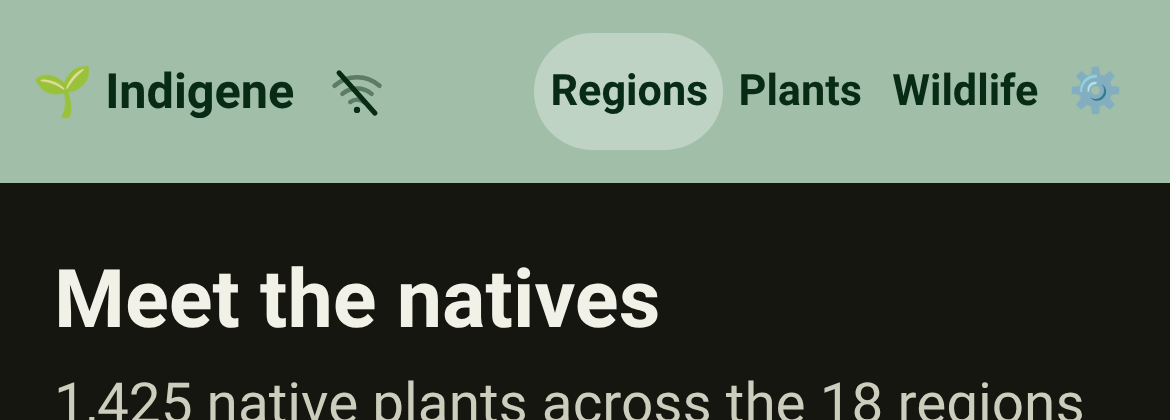
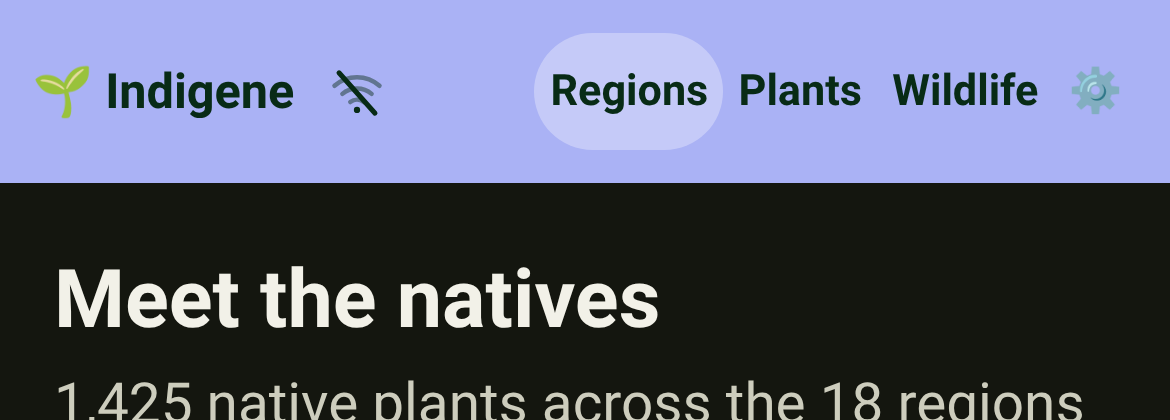
Offline header in dusk indigo, and an Offline mode switch in the gear menu
Grey read as a fault; offline is a mode worth having, so the header now
takes its own colour per scheme (--brand-offline). The menu's new row is a
role=switch button that flips lib/connection.ts in place and keeps the
panel open so the header change shows.

Claude-Session: https://claude.ai/code/session_01Sq9k88RoDSau4pfnRkPSQG

diff --git a/app/src/components/app-menu.ts b/app/src/components/app-menu.ts
@@ -5,8 +5,9 @@
 // is now the app's general menu, because it is the only spare surface in a
 // header measured to the pixel (see the ≤500px rules in styles.css — title +
 // four items with ~25 px of slack at 360 px). Anything that should be reachable
-// from every page without owning a tab belongs here. Today that's three rows,
-// in this order:
+// from every page without owning a tab belongs here. Today that's these rows,
+// in this order (plus the spooky theme in season, and Offline mode, the one
+// row that switches something in place instead of going somewhere):
 //
 //   1. What's new, first, because it's the row that wears the "something landed
 //      since you were last here" dot — and a menu you opened to check that
@@ -40,6 +41,7 @@ import { t } from "../lib/i18n";
 import { hasUnseenRelease } from "../lib/visits";
 import { halloweenOn, inSeason } from "../lib/halloween";
 import { isHomeScreenApp } from "../lib/standalone";
+import { forcedOffline, setForcedOffline } from "../lib/connection";
 import { newDot } from "./new-dot";
 
 let btn: HTMLButtonElement | null = null;
@@ -142,6 +144,7 @@ function fill(target: HTMLElement): void {
     row(notesHref, night ? "🔮" : "✨", t("footer.releaseNotes"), { dot: hasUnseenRelease() }),
     row("#/saved", night ? "🪦" : "🔖", t("nav.savedLocations")),
     ...(night || inSeason() ? [row("#/settings/spooky", "🎃", t("nav.halloween"))] : []),
+    offlineRow(),
     // One row, not one per setting. Language and units used to sit here as
     // their own values ("English", "Imperial") — two of the menu's four rows
     // spent on two of the settings page's five, and a menu that grows a row
@@ -152,6 +155,36 @@ function fill(target: HTMLElement): void {
     // (components/pull-to-reload.ts) is the fast way to the same thing; this is
     // the way that asks nothing of your hands.
     ...(isHomeScreenApp() ? [reloadRow()] : [])
+  );
+}
+
+/**
+ * Offline mode, as a switch (`lib/connection.ts`): flipping it is the point,
+ * so it acts in place and the menu stays open to show the header change. The
+ * Settings card is the same switch with room to explain it.
+ */
+function offlineRow(): HTMLElement {
+  const on = forcedOffline();
+  return el(
+    "button",
+    {
+      type: "button",
+      role: "switch",
+      "aria-checked": on ? "true" : "false",
+      class: "nav-menu-pref nav-menu-switch",
+      onClick: (e: Event) => {
+        // Redrawing the panel detaches this button, and the outside-click
+        // handler would then take the click for one outside the menu.
+        e.stopPropagation();
+        setForcedOffline(!on);
+        if (panel) fill(panel);
+      },
+    },
+    [
+      el("span", { class: "nav-menu-pref-icon", "aria-hidden": "true" }, "📴"),
+      t("nav.offline"),
+      el("span", { class: "nav-menu-state", "aria-hidden": "true" }, on ? t("nav.on") : t("nav.off")),
+    ]
   );
 }
 

diff --git a/app/src/styles.css b/app/src/styles.css
@@ -25,8 +25,9 @@
      themes — white in light, deep green ink in dark (where --brand is a
      light green and white text would drop to ~2:1). */
   --on-brand: #ffffff;
-  /* What the header greys toward while offline (lib/connection.ts). */
-  --offline-grey: #4a4f4c;
+  /* The header while offline (lib/connection.ts): dusk indigo, a mode of
+     its own rather than a dimmed green. Paired with --on-brand. */
+  --brand-offline: #3a3f9e;
   /* Active-pill background in the header nav; paired with --on-brand text. */
   --nav-pill: rgba(0, 0, 0, 0.25);
   --brand-ink: #0d3d20;
@@ -63,7 +64,7 @@
     --line-strong: #727b5f;
     --brand: #7ec894;
     --on-brand: #082b16;
-    --offline-grey: #b4b9b5;
+    --brand-offline: #aab2f5;
     --nav-pill: rgba(255, 255, 255, 0.32);
     --brand-ink: #b9e6c6;
     --brand-bg: #1f3326;
@@ -91,7 +92,7 @@
   --line-strong: #727b5f;
   --brand: #7ec894;
   --on-brand: #082b16;
-  --offline-grey: #b4b9b5;
+  --brand-offline: #aab2f5;
   --nav-pill: rgba(255, 255, 255, 0.32);
   --brand-ink: #b9e6c6;
   --brand-bg: #1f3326;
@@ -119,7 +120,7 @@
   --line-strong: #9b8aa6;
   --brand: #ff8a1f;
   --on-brand: #140a00;
-  --offline-grey: #a39b94;
+  --brand-offline: #c39af5;
   --nav-pill: rgba(0, 0, 0, 0.3);
   --brand-ink: #ffc27a;
   --brand-bg: #2e1a08;
@@ -797,6 +798,18 @@ p.more-link a {
   text-align: center;
 }
 
+/* Offline mode's on/off word, pushed to the row's end like a switch's. */
+.nav-menu-state {
+  margin-left: auto;
+  padding-left: 0.75rem;
+  font-weight: 500;
+  color: var(--ink-soft);
+}
+.nav-menu-switch[aria-checked="true"] .nav-menu-state {
+  font-weight: 650;
+  color: var(--focus);
+}
+
 /* Reload is a <button> among links — it acts on this page instead of going to
    another one — and has to read as one more row of the same menu. */
 .nav-menu-panel button.nav-menu-pref {
@@ -901,9 +914,9 @@ p.more-link a {
   }
 }
 
-/* Offline (lib/connection.ts): the header greys over and a small no-signal
-   mark sits beside the name. Quiet on purpose — the app still works, it's
-   just answering from what it saved. The mark links to the Settings switch. */
+/* Offline (lib/connection.ts): the header turns dusk indigo and a small
+   no-signal mark sits beside the name. Out of signal is where gardens are, so
+   it reads as a mode, not a fault. The mark links to the Settings switch. */
 .offline-badge {
   display: none;
   align-items: center;
@@ -919,7 +932,7 @@ p.more-link a {
   display: inline-flex;
 }
 :root[data-offline] .app-header {
-  background: color-mix(in oklab, var(--brand) 40%, var(--offline-grey));
+  background: var(--brand-offline);
 }
 
 /* --- Steps rail --- */

diff --git a/app/src/locales/fr.ts b/app/src/locales/fr.ts
@@ -47,6 +47,9 @@ export const fr: Dict = {
   "nav.halloween": "Thème effrayant",
   "nav.languageAndUnits": "Langue et unités",
   "nav.reload": "Recharger",
+  "nav.offline": "Mode hors ligne",
+  "nav.on": "Activé",
+  "nav.off": "Désactivé",
   "pullToReload.pull": "Tirez pour recharger",
   "pullToReload.release": "Relâchez pour recharger",
   "pullToReload.reloading": "Rechargement…",
@@ -138,7 +141,7 @@ export const fr: Dict = {
   "offline.onSub": "Jusqu'à ce que vous le désactiviez.",
   "offline.off": "En ligne",
   "offline.offSub": "Dès qu'il y a du réseau.",
-  "offline.deviceOffline": "Votre appareil est hors ligne en ce moment : l'en-tête reste gris dans tous les cas.",
+  "offline.deviceOffline": "Votre appareil est hors ligne en ce moment : l'en-tête reste indigo dans tous les cas.",
   "offline.nowOn": "Mode hors ligne activé.",
   "offline.nowOff": "Mode hors ligne désactivé.",
   "settings.done": "Terminé",
@@ -2941,6 +2944,7 @@ export const fr: Dict = {
   "emoji.new": "nouveau",
   "emoji.saved": "enregistré",
   "emoji.reload": "recharger",
+  "emoji.offline": "mode hors ligne",
   "emoji.halloween": "Halloween",
   "emoji.wilted": "fleur fanée",
   "emoji.language": "langue",

diff --git a/app/src/locales/en.ts b/app/src/locales/en.ts
@@ -51,6 +51,9 @@ export const en = {
   // Only ever shown when the app was opened from a Home Screen icon, which has
   // no reload button of its own (components/pull-to-reload.ts).
   "nav.reload": "Reload",
+  "nav.offline": "Offline mode",
+  "nav.on": "On",
+  "nav.off": "Off",
   // The three things the pull-down pill says, in the order you meet them.
   "pullToReload.pull": "Pull to reload",
   "pullToReload.release": "Release to reload",
@@ -144,7 +147,7 @@ export const en = {
   "offline.onSub": "Until you switch back.",
   "offline.off": "Online",
   "offline.offSub": "Whenever there's a signal.",
-  "offline.deviceOffline": "Your device is offline right now, so the header stays grey either way.",
+  "offline.deviceOffline": "Your device is offline right now, so the header stays indigo either way.",
   "offline.nowOn": "Offline mode on.",
   "offline.nowOff": "Offline mode off.",
   "settings.done": "Done",
@@ -3020,6 +3023,7 @@ export const en = {
   "emoji.new": "new",
   "emoji.saved": "saved",
   "emoji.reload": "reload",
+  "emoji.offline": "offline mode",
   "emoji.halloween": "Halloween",
   "emoji.wilted": "wilted flower",
   "emoji.language": "language",

diff --git a/app/src/components/offline-controls.ts b/app/src/components/offline-controls.ts
@@ -1,6 +1,6 @@
 // Settings → Offline mode: try the app with no signal, without hunting for
 // airplane mode (`lib/connection.ts`). Live lookups fail as they would in the
-// field, and the header greys over to say so.
+// field, and the header turns indigo to say so.
 import { el, clear, toast } from "../ui";
 import { t } from "../lib/i18n";
 import { forcedOffline, onConnectionChange, setForcedOffline } from "../lib/connection";

diff --git a/app/index.html b/app/index.html
@@ -69,7 +69,7 @@
     </script>
 
     <!-- offline: stamp `data-offline` before the first paint, so a page
-         opened with no signal (or with Settings → Offline on) has its grey
+         opened with no signal (or with Settings → Offline on) has its indigo
          header from the start. A trimmed copy of `isOnline()` in
          lib/connection.ts, which keeps it up to date from there. -->
     <script>

diff --git a/app/src/lib/emoji.ts b/app/src/lib/emoji.ts
@@ -104,6 +104,7 @@ const MEANING: Record<string, TKey> = {
   "✨": "emoji.new",
   "🔖": "emoji.saved",
   "🔄": "emoji.reload",
+  "📴": "emoji.offline",
   // The spooky theme's cast (lib/halloween.ts): the logo and the menu.
   "📜": "emoji.guide",
   "🔮": "emoji.new",

diff --git a/changelog.d/claude-offline-header.md b/changelog.d/claude-offline-header.md
@@ -1,6 +1,6 @@
 ### Added
 
-- With no signal, the header turns grey and a small no-signal mark sits beside the name, for as long as you're offline. Want to see how that works before you're in the field? Switch on [Offline mode](https://indigene.app/#/settings/offline) in Settings.
+- With no signal, the header turns indigo and a small no-signal mark sits beside the name. To try it before you're in the field, switch on Offline mode from the ⚙ menu or [Settings](https://indigene.app/#/settings/offline).
 - Internal: `lib/connection.ts` owns `isOnline()` (device offline *or* `indigene:offline` = `on`) and stamps `data-offline` on `<html>`; a head script in `index.html` does the same before first paint. While forced, `fetch` rejects cross-origin requests; same-origin files still load. The three `navigator.onLine` checks now call `isOnline()`.
 
 ### Fixed
